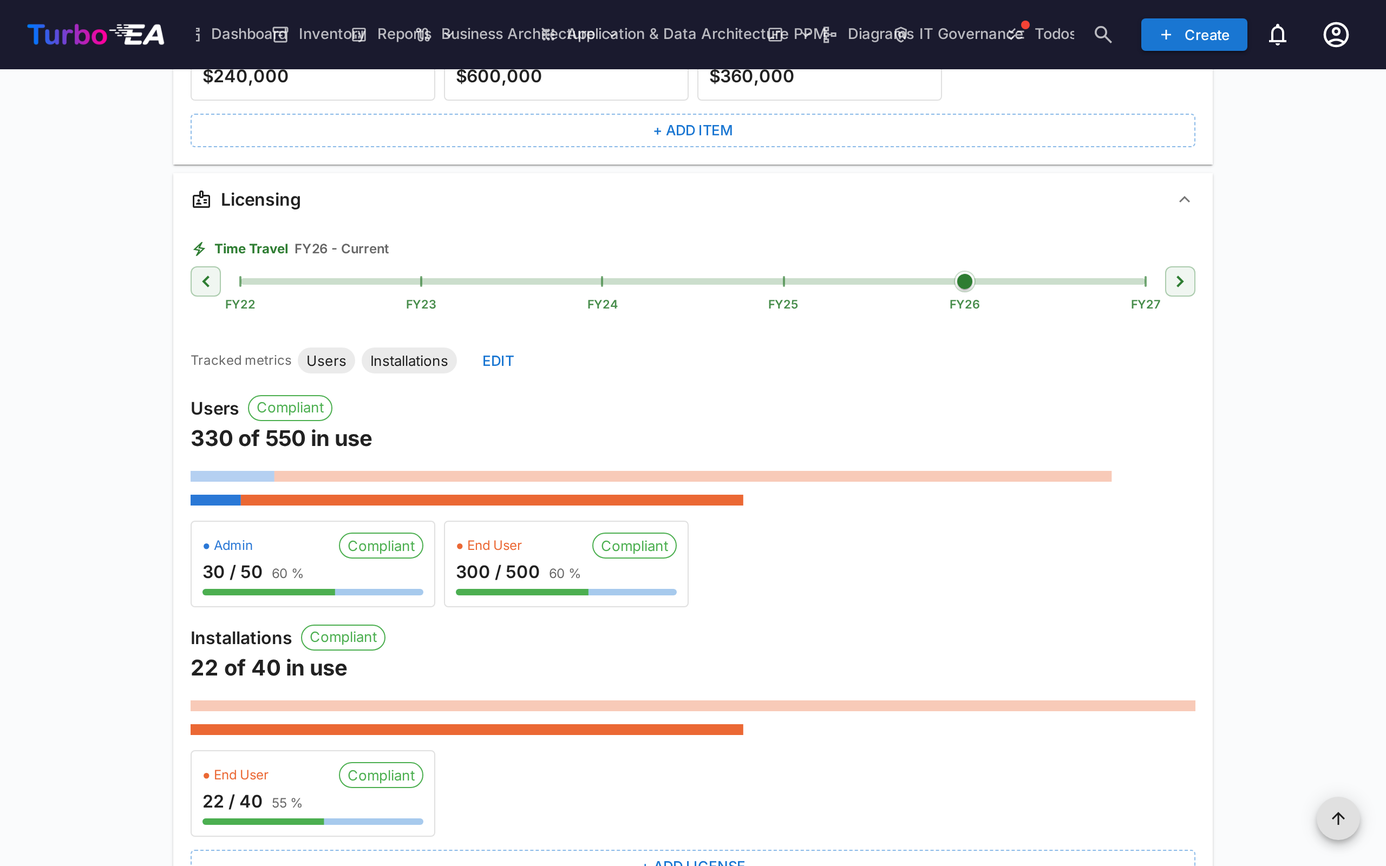
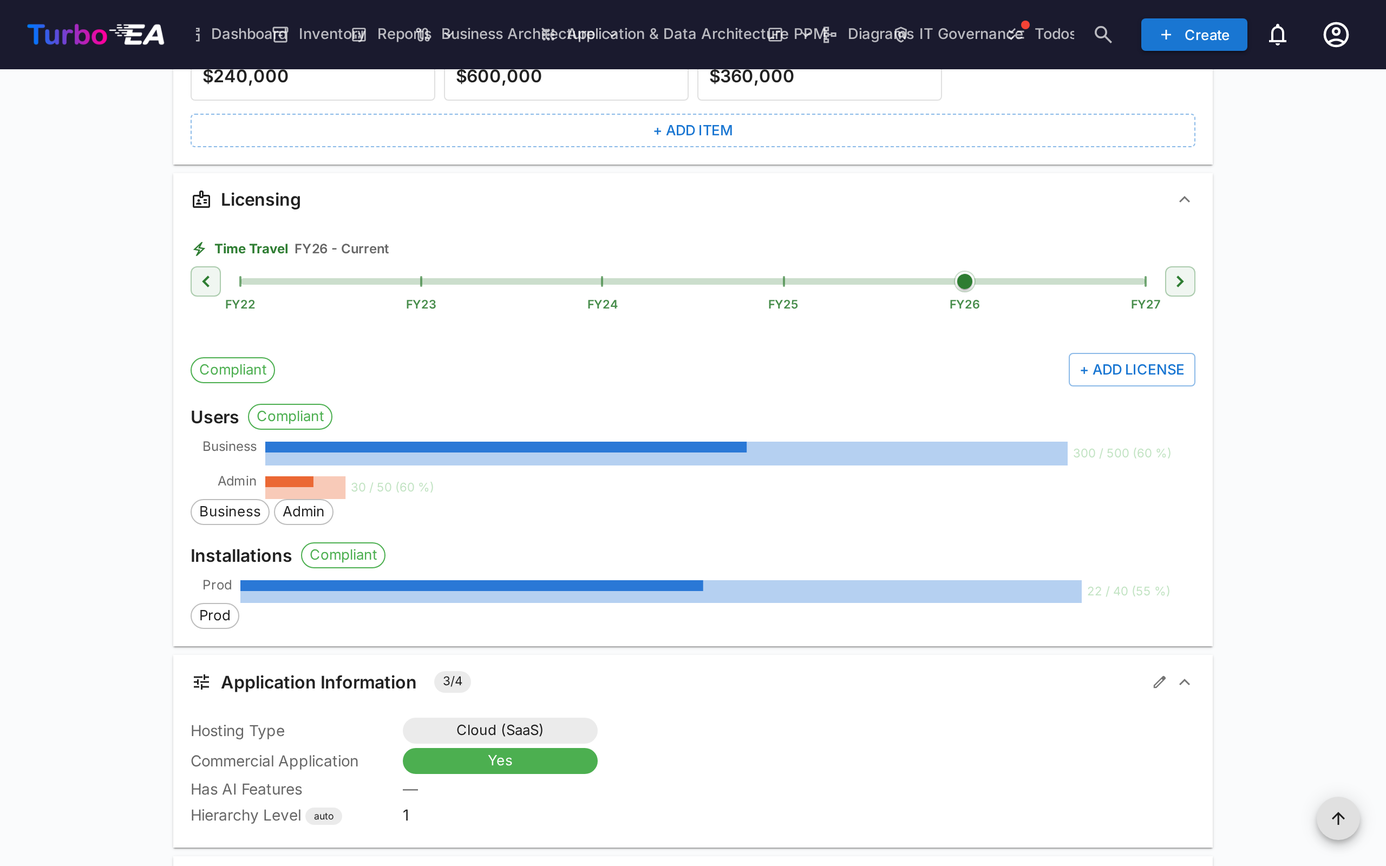
docs(licensing): manual follows license metrics (English), screenshots 103 and 104 retaken

diff --git a/scripts/screenshots/pages.ts b/scripts/screenshots/pages.ts
@@ -1206,8 +1206,16 @@ export const DOC_PAGES: PageDef[] = [
   {
     id: "103_report_licensing",
     route: "/reports/licensing",
-    waitFor: ".echart-container",
-    actions: [{ type: "wait", ms: 1000 }],
+    waitFor: "button[aria-expanded]",
+    // The Utilisation list starts collapsed and most demo cards have no licensing: keep the
+    // Over-licensed tile (third status tile), then open its first card so the pair bars show.
+    actions: [
+      { type: "click", selector: "[role='button'][aria-pressed]", nth: 2 },
+      { type: "wait", ms: 500 },
+      { type: "click", selector: "button[aria-expanded='false']", nth: 0 },
+      { type: "waitFor", selector: ".echart-container" },
+      { type: "wait", ms: 1000 },
+    ],
     filenames: {
       en: "103_report_licensing",
       de: "103_bericht_lizenzierung",

diff --git a/docs/guide/reports.md b/docs/guide/reports.md
@@ -270,27 +270,26 @@ The full-screen button on the treemap and the Sankey makes the chart fill the wh
 
 The **Licensing Report** (**Reports → Licensing**) compares, for every Application or IT Component, the licenses under contract with the ones really used, and flags an overrun. It needs the `licenses.view` permission. The data is entered in the [Licensing section](card-details.md#licensing-section-application-and-it-component) of each card or imported from Excel.
 
-The toolbar picks the **card type** (Application or IT Component, one at a time), the **metric** (**Users** or **Installations**), the **license type** (all, or one entry of the catalogue), the **group by** and the card scope. The **fiscal year** is chosen with the same green **Time Travel** row as in the Cost Report, without the Forecast year. Only cards whose **Licensing model** field includes the selected metric are listed. Four tiles on top count the cards that are **Compliant**, **Approaching**, **Over-licensed** or have **No actual data** in the selected year.
-
-**Trend** — Above the view, a chart shows licensed against actual counts for the current year, the four before it and the **Forecast** year (licensed only), stacked by license type. It follows the license type filter, the scope and any drill-down.
+The toolbar picks the **card type** (Application, IT Component or both, as in the Cost Report), the **metric**, the **license type**, the **group by** and the card scope. The **Metric** select offers **All metrics** and one entry per metric. The **License type** select follows the metric: under a metric it lists that metric's types, and under **All metrics** it lists every type as **Metric: Type**. Every pair is named *Metric: Type* in the report. The **fiscal year** is chosen with the same green **Time Travel** row as in the Cost Report, without the Forecast year. Four tiles on top count the cards that are **Compliant**, **Approaching**, **Over-licensed** or have **No actual data** in the selected year. Click a tile to keep only the cards with that status (the other tiles dim); click it again to clear.
 
 ### Views
 
 | View | What it shows |
 |---|---|
-| **Utilisation** | One horizontal bar per card: actual divided by licensed, highest first. Green below 80 %, orange from 80 % to 100 %, red above 100 %, with reference lines at 80 % and 100 %. A card with no actual data is a grey bar at zero. |
-| **By license type** | Grouped bars of licensed against actual for each license type in the selected year. Without a card picked it shows the totals of the scope. The **Card** picker narrows it to one Application or IT Component; picking a **Platform** sums the Applications and IT Components linked to it, each counted once. |
-| **Table** | One row per card with licensed, actual and % for each license type, the totals and the status. The **Columns** menu adds card fields. Download to Excel or print it like the Cost Report. |
+| **Utilisation** | A list with one row per card: its logo, name and alias on the left, and its status on the right. The **open** icon at the end of the row opens the card's side panel. Expand a row to see what the card's Licensing section shows for the year: one bar per pair, Licensed and Actual overlapped, grouped by metric. **Click a pair** to open its history below the list; with no card and pair chosen there is no chart on the page. |
+| **Table** | One row per card with a column group per pair (licensed, actual and %), a status column and totals **per metric**, never across metrics. The **Columns** menu adds card fields. Download to Excel or print it like the Cost Report. |
 
-**Status.** Each license type is judged alone, with no compensation between types: it is **over-licensed** when actual exceeds licensed, and **approaching** from 80 % of licensed. A card takes its worst status. A card with no actual count for the selected metric is **No actual data**. The bar of a card shows its worst license type. The Forecast year has no status.
+**Which cards are rows.** With **All metrics**, every card of the selected card type inside the scope is a row, including a card with no pair in the year, which shows **No actual data**. With a metric or a license type selected, only the cards that have a pair of that selection in the year are listed. For a year other than the current one, only cards with licensing stored for that year are listed. Picking a **Platform** in the **Card** picker sums the Applications and IT Components linked to it, each counted once; its rows have no status.
 
-**Gestures** — A **left click** on a card opens its side panel. A **right click** on a card (or on a group when Group by is on) drills into it, with a breadcrumb and a **Back** button; the trend follows the drill. The By license type view has no drill-down.
+**Status.** Each pair is judged alone, with no compensation between types: it is **over-licensed** when actual exceeds licensed, and **approaching** from 80 % of licensed. A card takes its worst status; with a metric or license type selected, the worst of that selection. A card with no pair in the year, or no actual count, is **No actual data**. The Forecast year has no status.
+
+**Gestures** — A **left click** on a row expands it. A **right click** on a card (or on a group when Group by is on) drills into it, with a breadcrumb and a **Back** button. The drill-down applies to the Table and list views.
 
 ### Import
 
-**Import** in the toolbar loads license counts from an Excel file (needs `licenses.edit`). The first sheet has one row per count, with the columns **Component**, **Metric**, **License type**, **Year**, **Licensed** and **Actual**. The component is matched by exact name (case-insensitive); the license type by its key or English name; the year is the fiscal year as named in the toolbar (for example 2026). An empty cell leaves the stored value unchanged, and an Actual count cannot be set for the Forecast year.
+**Import** in the toolbar loads license counts from an Excel file (needs `licenses.edit`). The first sheet has one row per count, with the columns **Component**, **Metric**, **License type**, **Year**, **Licensed** and **Actual**. The component is matched by exact name (case-insensitive); the metric by its key or name, and the license type, which must belong to that metric, by its key or name; the year is the fiscal year as named in the toolbar (for example 2026). An empty cell leaves the stored value unchanged, and an Actual count cannot be set for the Forecast year. A row with a value adds the pair to that year if the card did not have it.
 
-The dialog first shows a preview: the rows that will be applied and the rows skipped, each with its reason (card not found, unknown license type, year out of range, not a whole number, duplicate cell). Nothing is written until you click **Apply**. The import never creates a license type or edits the Licensing model of a card.
+The dialog first shows a preview: the rows that will be applied and the rows skipped, each named *Metric: Type* and with its reason: card not found, more than one card with this name, unknown metric, a metric text that matches more than one metric (use the metric key), unknown license type, a license type that belongs to another metric, an archived metric or type not yet used on this card, year out of range, not a whole number, no value to write, or a duplicate cell. Nothing is written until you click **Apply**. The import never creates or edits a metric or a license type. An archived metric or type cannot start a new pair, but updates a pair the card already has.
 
 Licensing reports can be saved like the other reports (see [Saved Reports](#saved-reports)).
 

diff --git a/docs/guide/card-details.md b/docs/guide/card-details.md
@@ -137,17 +137,23 @@ The card's **Total annual cost** field (`costTotalAnnual`) is derived from the c
 
 ### Licensing Section (Application and IT Component)
 
-The **Licensing** section records, year by year, how many licenses the card has under contract and how many are really used. It sits next to Costs and has the same green **Time Travel** row over six years: the four before the current one, the current one and the **Forecast**. Which metrics the card tracks (**Users**, **Installations**) comes from its **Licensing model**, shown at the top of the section. Anyone who can edit the card changes it with **Edit** there: tick **Users** and/or **Installations**, then **Save**. The model is not shown among the card's other fields.
+The **Licensing** section records, year by year, how many licenses the card has under contract and how many are really used. It sits next to Costs and has the same green **Time Travel** row over six years: the four before the current one, the current one and the **Forecast**. Everything in the section is for the selected year.
+
+A card has the **pairs** *Metric: Type* (for example *Users: Admin* or *Installations: Prod*) that were added to the selected year. There is no card-level setting to tick: a pair exists in a year once you add it.
 
 ![Licensing section](../assets/img/en/104_card_licensing.png)
 
-- **Per metric and license type** — Each metric has a block with one tile per license type showing the **licensed** count, the **actual** count, the **utilisation %** and a status: **Compliant**, **Approaching** (from 80 %), **Over-licensed** (actual above licensed) or **No data**. A stacked bar sums the types. License types come from the catalogue an administrator manages under [Metamodel → License types](../admin/metamodel.md#license-types).
-- **Adding and editing** — Add, edit or delete a count in a dialog. Leaving **Actual** empty means "no data", which is different from 0.
-- **Forecast** — The Forecast year takes the licensed count only. **Copy to Forecast** copies the licensed counts of the year you are viewing.
+- **Bars** — Each pair is one horizontal bar, grouped under a header per metric, so users are only compared with users and installations with installations. In a bar, **Licensed** is the wide pale bar behind and **Actual** the narrower solid bar in front. At the end of the bar the consumption reads **actual / licensed (%)**, coloured by its status. A pair with no values reads **no data**.
+- **Status** — A chip at the top gives the status of the card for the year, and each metric has its own chip: **Compliant**, **Approaching** (from 80 %), **Over-licensed** (actual above licensed) or **No actual data**. A card with no pair in the year is **No actual data**. The Forecast year has no status.
+- **History** — Click a bar, or the chip of the pair under the chart, to open the **history** of that pair below the bars: its licensed and actual counts for the current year, the four before it and the Forecast year (licensed only), with the other pairs dimmed. Click the pair again, or another pair, to close or switch it.
+- **Add license** — Pick the **metric** first, then a **license type** of that metric. Archived metrics and types cannot be chosen, and pairs the year already has are not offered again. The pair is added to the selected year only. Open a pair to edit its counts, or clear it to remove the pair from that year without touching other years. Leaving **Actual** empty means "no data", which is different from 0.
+- **Forecast** — The Forecast year takes the licensed count only. **Copy licensed to Forecast** in the dialog copies the licensed count of the year you are viewing.
 
-**A new fiscal year.** When a card has no licensing data for the new current year yet, the section shows the previous year's licensed counts marked **not confirmed**, with no actual count, so a new year never inherits last year's consumption. They stay that way until someone confirms them or edits a count.
+Metrics and license types come from the catalogue an administrator manages under [Metamodel → License types](../admin/metamodel.md#license-types).
 
-**Who can see and edit licenses.** You can **view** them with the `licenses.view` permission, or when you hold any stakeholder role on the card. You can **edit** them with the `licenses.edit` permission, or when you hold a stakeholder role on the card that allows editing the card. By default only administrators hold `licenses.edit`. A change appears in the History tab as **Licenses updated**, naming the license types touched but not the counts, and it cannot be rolled back.
+**A new fiscal year.** When a card has no licensing data for the new current year yet, the section shows the pairs of the previous year with their licensed counts, drawn **faded** and marked **not confirmed**, with no actual count, so a new year never inherits last year's consumption. They stay that way until someone confirms the year (**Confirm**) or edits a count.
+
+**Who can see and edit licenses.** You can **view** them with the `licenses.view` permission, or when you hold any stakeholder role on the card. You can **edit** them with the `licenses.edit` permission, or when you hold a stakeholder role on the card that allows editing the card. By default only administrators hold `licenses.edit`. A change appears in the History tab as **Licenses updated**, naming the pairs touched (*Metric: Type*) but not the counts, and it cannot be rolled back.
 
 ### Hierarchy Section
 

diff --git a/docs/admin/metamodel.md b/docs/admin/metamodel.md
@@ -296,15 +296,23 @@ Entering amounts on a card needs `costs.edit` (or a stakeholder role that may ed
 
 ## License types
 
-**License types** are the catalogue of license kinds that Application and IT Component cards can carry (see the [Licensing section](../guide/card-details.md#licensing-section-application-and-it-component)), for example *Admin*, *End User*, *Prod* or *Dev*. Manage it under **Admin > Metamodel > License types**.
+**License metrics and license types** are the catalogue behind the [Licensing section](../guide/card-details.md#licensing-section-application-and-it-component) of Application and IT Component cards. A **metric** is what licenses are counted in; the default ones are **Users** and **Installations**. Each metric has its own **license types**, for example *Business* and *Admin* under Users, or *Prod* and *No-Prod* under Installations. A card records its counts per **pair** such as *Users: Admin*, and counts of different metrics are never added together.
 
-Each type has a stable **key** (letters, digits and underscores, fixed once created), a **name** and optional **translations** of the name. Types are **archived**, not deleted: an archived type can no longer be added to a card, but counts already entered keep counting in the statuses and in the [Licensing Report](../guide/reports.md#licensing-report). Each type keeps a stable colour in the charts, following its order in the catalogue.
+Manage both under **Admin > Metamodel > Card types > License types**. The **License types** dialog lists the metrics, and under each metric its types:
+
+- **Add metric** and **Add type** create an entry with a stable **key** (letters, digits and underscores, starting with a letter, fixed once created), a **name** and optional **translations** of the name. A type is created inside a metric and never moves to another one, so two metrics can each have a type with the same key.
+- **Edit** changes the name and translations; **Move up** and **Move down** reorder. A type keeps a stable colour in the charts, following its order within its metric.
+- **Archive** and **Restore** replace deletion: nothing is ever deleted. An archived metric or type cannot be chosen for a new pair, but counts already entered keep counting in the statuses and in the [Licensing Report](../guide/reports.md#licensing-report), and it is still shown on the years that hold data for it.
 
 Two permissions control licensing. `licenses.view` lets a role read the licenses of any card, and `licenses.edit` lets it change them and import them from the Licensing Report; a stakeholder on a card can also read it, and edit it when their role may edit the card. By default only administrators hold `licenses.edit`. Changing the catalogue needs the metamodel administration permission.
 
 ### Moving from the Licensing Analysis extension
 
-Licensing is now part of Turbo EA. On upgrade, the data of the former *Licensing Analysis* extension moves automatically: the licensed and actual counts go into the current fiscal year of each card, every free-text category becomes a license type, the extension's `ext.licensing.view` and `ext.licensing.manage` grants are copied to `licenses.view` and `licenses.edit`, and the extension's four count fields are removed from the cards. The *Licensing model* field moves to its own **Licensing** section of the type, and is restored there if it had been deleted. That field is protected: it cannot be deleted, retyped, moved out of its section or stripped of its **Users** / **Installations** options (you can still rename it, translate it or add options), and the card layout editor does not list its section. A card's model is edited from the card's Licensing section. Values that could not be moved are listed in a report kept in the application settings. **Uninstall the extension** after upgrading (Admin → Extensions); its saved reports are not converted.
+Licensing is now part of Turbo EA. On upgrade, the data of the former *Licensing Analysis* extension moves automatically: the licensed and actual counts go into the current fiscal year of each card, every free-text category becomes a license type, the extension's `ext.licensing.view` and `ext.licensing.manage` grants are copied to `licenses.view` and `licenses.edit`, and the extension's four count fields are removed from the cards. Values that could not be moved are listed in a report kept in the application settings. **Uninstall the extension** after upgrading (Admin → Extensions); its saved reports are not converted.
+
+### Metrics replace the Licensing model field
+
+Earlier versions kept the license types in one flat list, and a protected **Licensing model** field on the card type said which metrics a card tracked. That field and its **Licensing** section are gone. On upgrade, the default metrics **Users** and **Installations** are created and each existing license type is placed under the metric whose data it holds; a type used under both metrics is duplicated, and a type with no data is attached to both (archive what you do not need). Counts already stored are kept, including those of a metric the card did not track before: they now show, because their pair exists in its year. A card has exactly the pairs added to it for each year, so there is nothing to tick on the card type or on the card.
 
 ## Calculations
 

diff --git a/docs/admin/audit-log.md b/docs/admin/audit-log.md
@@ -148,7 +148,7 @@ A save that changes nothing is not recorded, and neither is a user editing their
 |------|---------|------------------|
 | **Users & roles** | `admin.user.created`, `.updated`, `.deleted`, `.bulk_updated`, `.bulk_deleted`, `.unlocked`; `admin.user.invitation.resent`, `.deleted`; `admin.role.created`, `.updated`, `.archived`, `.restored`; `admin.stakeholder_role.created`, `.updated`, `.deleted`, `.archived`, `.restored` | Accounts created, edited, activated or deactivated, deleted (one by one or in bulk) and unlocked, with the changed fields — role, email, name, active state; invitations re-sent or revoked; application roles and per-type stakeholder roles, with the permissions granted or removed |
 | **Settings** | `admin.settings.updated` | One entry per setting saved — email, authentication and SSO, registration, AI, MCP, languages, module toggles, branding, logo and favicon, retention periods. The target is the setting; the details are its old and new value, with secrets masked |
-| **Metamodel** | `admin.metamodel.type.*` (including `.references_generated`), `admin.metamodel.relation_type.*`, `admin.metamodel.resource_type.*`, `admin.metamodel.category.*` (including `.reordered`), `admin.principle.*` (including `.imported`), `admin.regulation.*` | Card types, relation types and resource types created, changed, deleted or restored, with the changed properties; card references generated for a type; EA principles, including those imported from the catalogue or from a spreadsheet (one entry per import, with how many were created, updated, skipped and failed); compliance regulations; card type categories (architecture layers) created, renamed, recolored, reordered or deleted |
+| **Metamodel** | `admin.metamodel.type.*` (including `.references_generated`), `admin.metamodel.relation_type.*`, `admin.metamodel.resource_type.*`, `admin.metamodel.category.*` (including `.reordered`), `admin.metamodel.license_metric.*`, `admin.metamodel.license_type.*`, `admin.principle.*` (including `.imported`), `admin.regulation.*` | Card types, relation types and resource types created, changed, deleted or restored, with the changed properties; card references generated for a type; EA principles, including those imported from the catalogue or from a spreadsheet (one entry per import, with how many were created, updated, skipped and failed); compliance regulations; card type categories (architecture layers) created, renamed, recolored, reordered or deleted; license metrics and license types created or changed (renamed, translated, reordered, archived or restored) |
 | **Tags & calculations** | `admin.tag_group.*`, `admin.tag.*`, `admin.calculation.*` | Tag groups and tags; calculated fields created, changed, deleted, activated or deactivated, with the old and new formula, and a calculation run over all cards (`.recalculated`) |
 | **Extensions** | `admin.extension.install.uploaded`, `.applied`, `.discarded`; `admin.extension.store.claimed`, `.refreshed`, `.installed`; `admin.extension.enabled`, `.disabled`, `.uninstalled`; `admin.extension.license.updated`, `.removed` | Bundles uploaded, installed or discarded; licenses and downloads from the Extension Store; extensions enabled, disabled and uninstalled; the license replaced or removed — with the extension and its version, never the license text |
 | **Workspace transfer & migration** | `admin.workspace.import.uploaded`, `.applied`, `.completed`, `.discarded`; `admin.migration.uploaded`, `.field_mappings.updated`, `.applied`, `.deleted` | A [workspace bundle](workspace-transfer.md) uploaded, its import started, finished or discarded; a [platform migration](migration.md) uploaded, its field mappings edited, applied or deleted |

diff --git a/docs/admin/workspace-transfer.md b/docs/admin/workspace-transfer.md
@@ -13,7 +13,7 @@ The export captures the full workspace as a `.zip` bundle containing one Excel w
 - **Settings** — currency, date format, feature flags, login branding, enabled locales, and the rest of the general application settings.
 - **Users** — email, display name, role, and active flag (used to re-link ownership and assignments on the target). No passwords or SSO identities.
 - **Cost items** — the cost item catalogue (keys, labels, translations, archived flag) and each Application or IT Component's cost items per fiscal year.
-- **License types** — the license type catalogue and each Application or IT Component's license counts per fiscal year.
+- **License metrics and types** — the sheets `LicenseMetrics` and `LicenseTypes` (the types of each metric), and each Application or IT Component's license counts per fiscal year in `CardLicenses`. A bundle written before license metrics existed is converted on import: the metrics and the metric of each type are derived from the card data in the bundle, and the old *Licensing model* field is dropped. A bundle with the new sheets imported into an older instance is not refused, but the older instance ignores them.
 - **Inventory** — every card (with its hierarchy, lifecycle, and attributes), card tags, and relations.
 - **Card context** — stakeholders, document links, comments, todos, and file attachments.
 - **Module data** — BPM (process diagrams, elements, flow versions, assessments), PPM (status reports, costs, budgets, risks, tasks, WBS, dependencies), the GRC risk register (risks, mitigation tasks and occurrences, card links), GRC compliance findings (with the analysis runs they reference), architecture decisions and Statements of Architecture Work, free-draw diagrams, saved reports, bookmarks (saved inventory views, including their shares), web portals, and surveys.

diff --git a/docs/reference/glossary.md b/docs/reference/glossary.md
@@ -27,7 +27,8 @@
 | **DrawIO** | The embedded open-source diagramming tool used for visual architecture diagrams |
 | **Cost Item** | One line of an Application or IT Component's annual cost (for example hosting), taken from the catalogue in Admin > Metamodel > Cost items. A card's TCO is the sum of its items for the fiscal year |
 | **TCO (Total Cost of Ownership)** | The total annual cost of an Application or IT Component for a fiscal year, always derived from its cost items and never typed by hand |
-| **License Type** | A kind of license (for example Admin or End User) from the catalogue in Admin > Metamodel > License types. Application and IT Component cards record licensed and actual counts per license type, metric and fiscal year |
+| **License Metric** | What an Application or IT Component's licenses are counted in (by default Users and Installations), from the catalogue in Admin > Metamodel > License types. Counts of different metrics are never added together |
+| **License Type** | A kind of license (for example Admin or Prod) that belongs to one License Metric, from the catalogue in Admin > Metamodel > License types. A card records licensed and actual counts for each Metric: Type pair and fiscal year |
 | **Utilisation** | Actual license count divided by licensed count, as a percentage. Below 80 % a license type is compliant, from 80 % approaching, above 100 % over-licensed |
 | **Cost Line** | A budget or actual cost entry (CapEx/OpEx) in a PPM initiative, used to track financial spending |
 | **Enterprise Architecture (EA)** | The discipline that organizes and documents an organization's business and technology structure |
